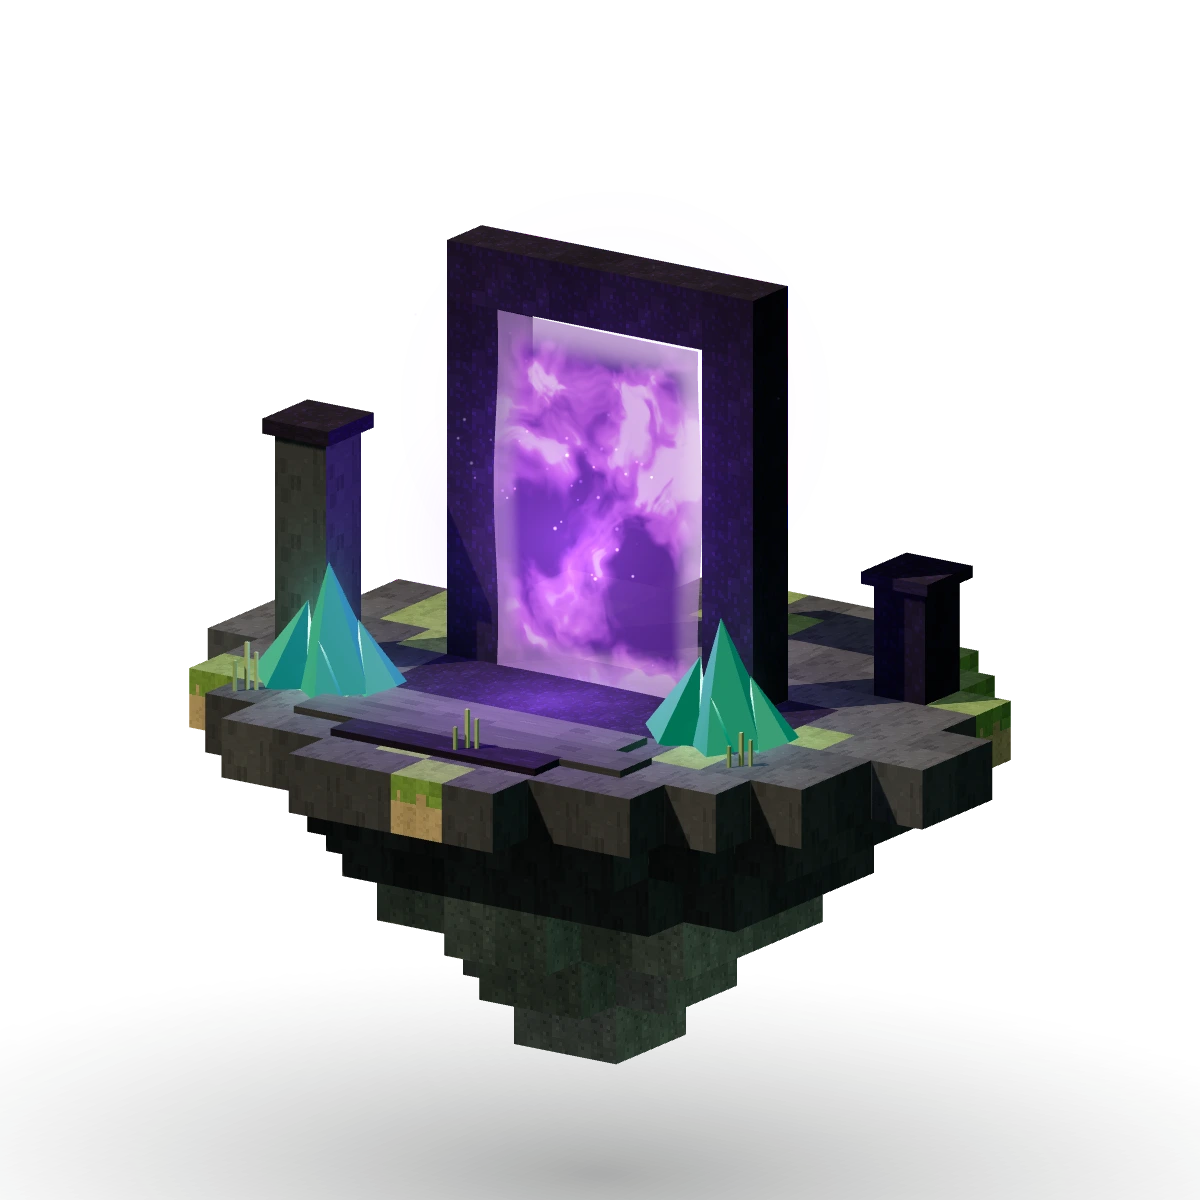
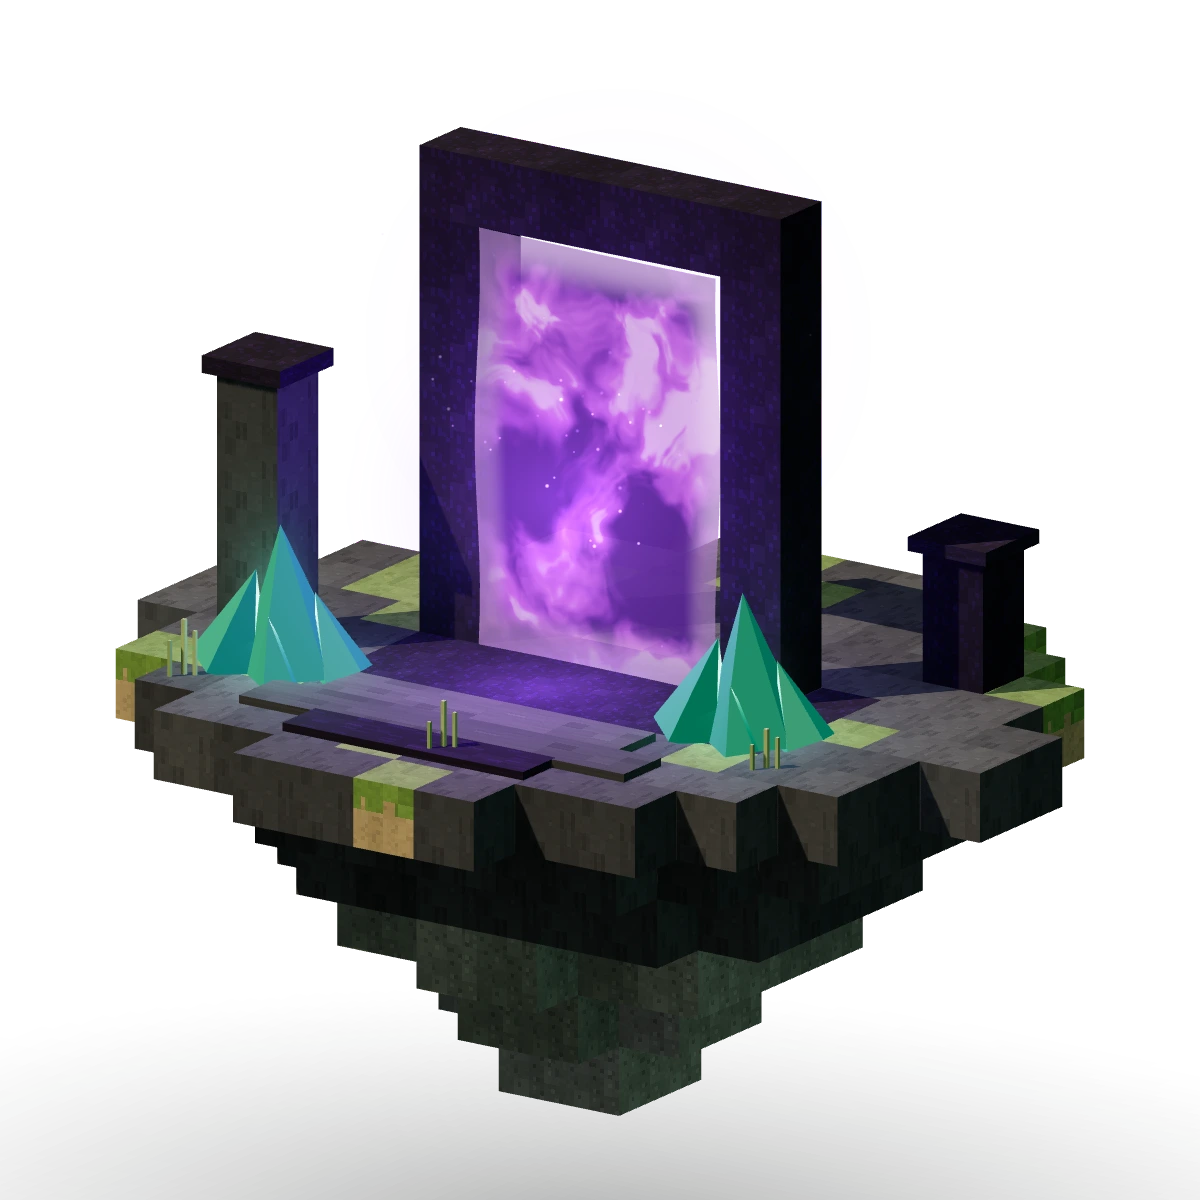
Сайт: крупнее портал на аккаунте и загрузке
Камера портала приближена (~18%), account-арт масштабируется на панель,
а сцена загрузки стала выше. Постеры перегенерированы из тех же сцен.

Changed region(s): [[0.0925, 0.0925, 0.925, 0.9867]]

diff --git a/apps/site/src/pages.css b/apps/site/src/pages.css
@@ -859,7 +859,7 @@ html.nav-open {
 
 .download-stage {
   position: relative;
-  min-height: 580px;
+  min-height: 620px;
 }
 
 .download-stage__wide {
@@ -918,12 +918,13 @@ html.nav-open {
   position: relative;
   min-height: 520px;
   align-self: stretch;
+  overflow: hidden;
 }
 
 .auth-art img {
   width: 100%;
   height: 100%;
-  object-fit: contain;
+  object-fit: cover;
   object-position: center;
 }
 

diff --git a/packages/visuals/src/site/runtime-site.ts b/packages/visuals/src/site/runtime-site.ts
@@ -49,8 +49,8 @@ const PRESETS: Record<DioramaVariant, CameraPreset> = {
   },
   portal: {
     position: [7.2, 4.7, 10.4],
-    target: [0, 0.85, 0],
-    halfHeight: 3.3,
+    target: [0, 0.7, 0],
+    halfHeight: 2.8,
     shadowY: -2.45,
   },
 };
